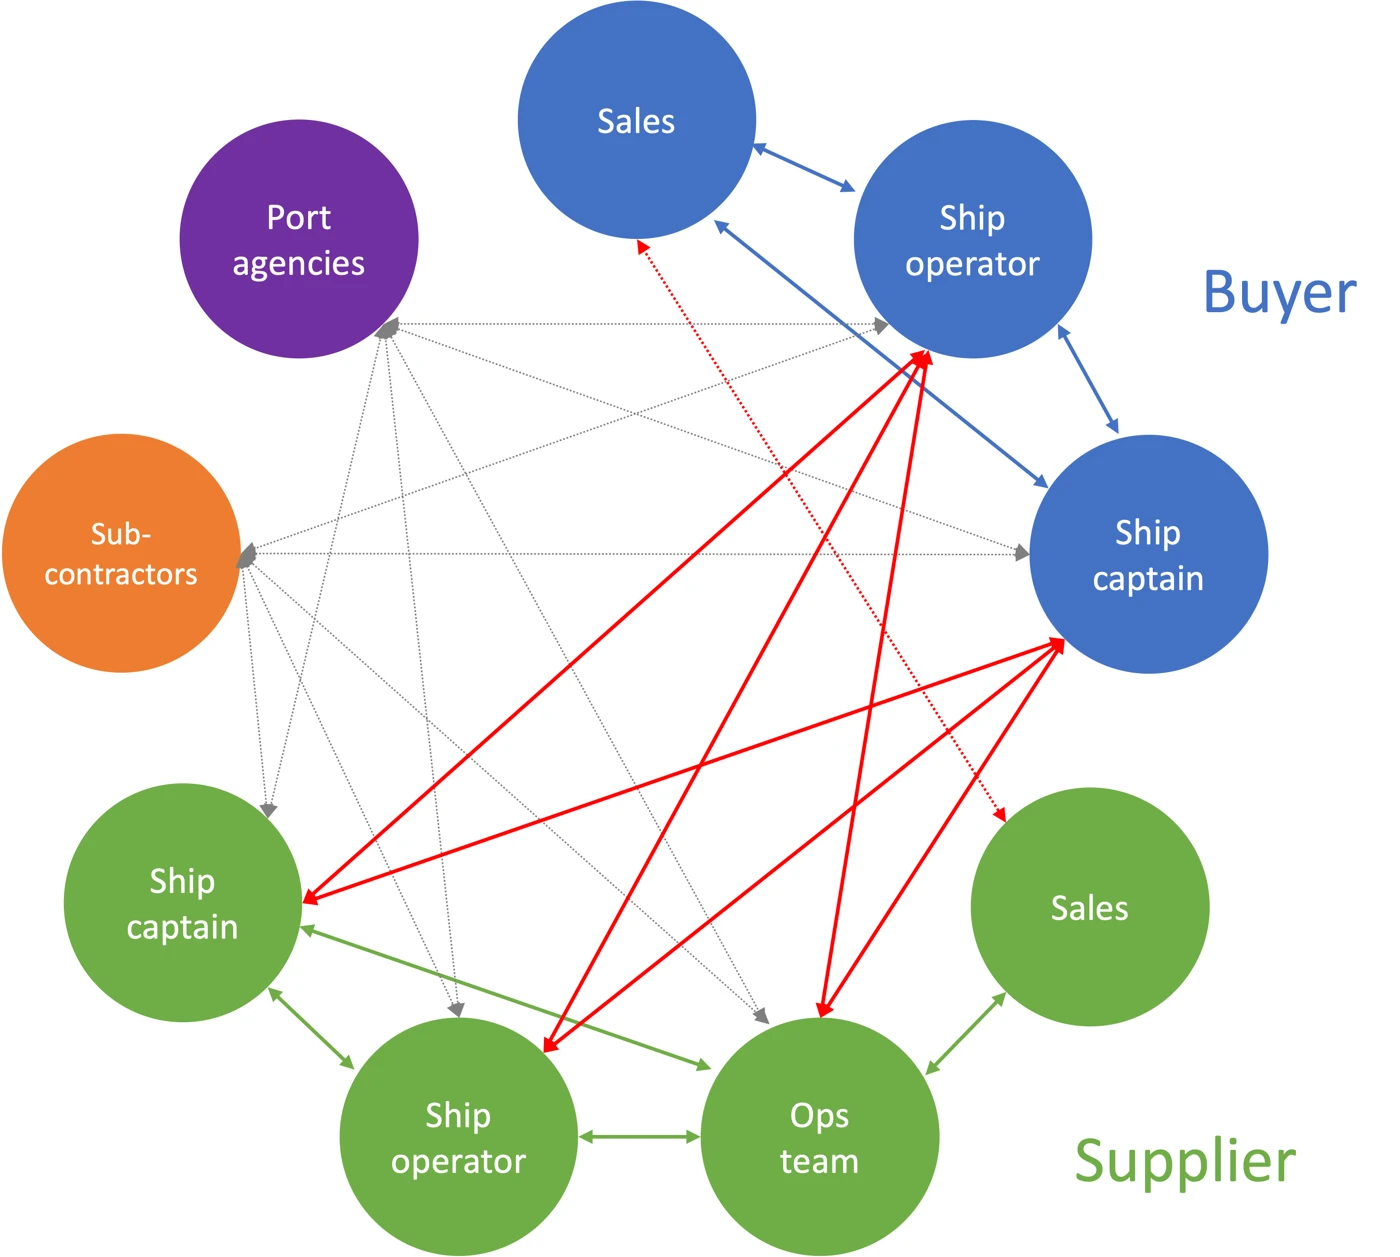
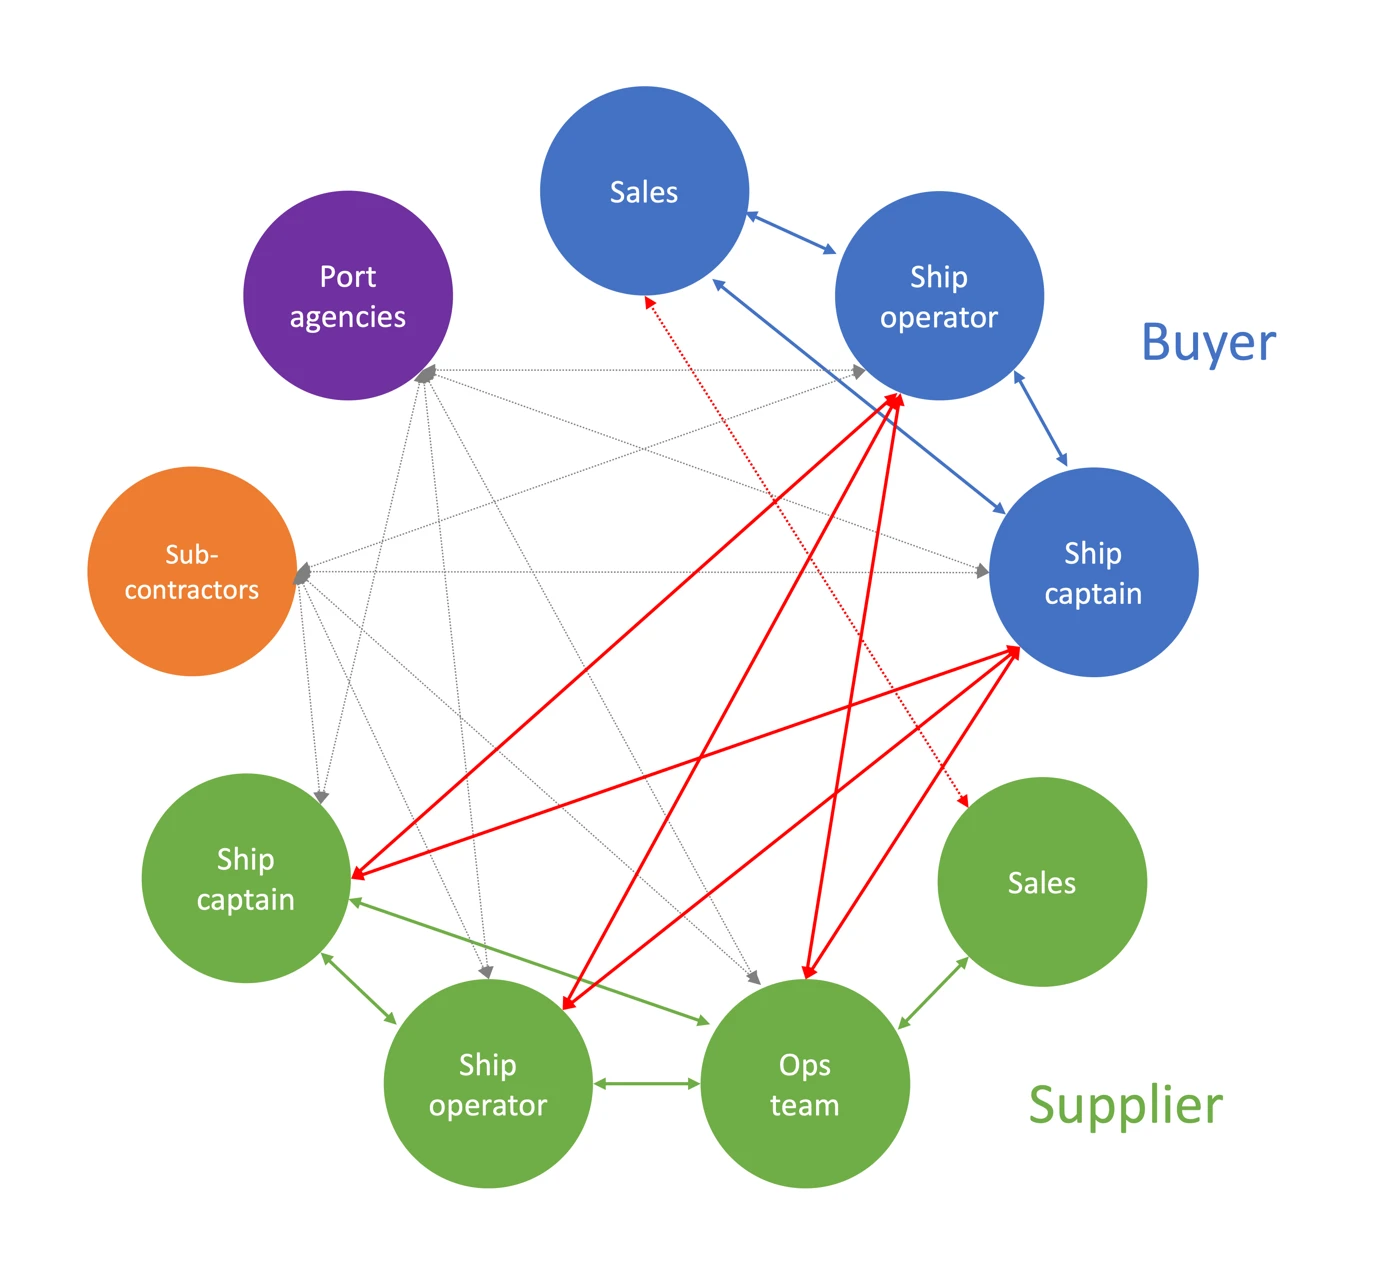
Projects: white margin around the Maritime Refueling communications map
Claude-Session: https://claude.ai/code/session_011E2VMLXTzcUZypcEyQdLEQ

diff --git a/projects.html b/projects.html
@@ -313,7 +313,7 @@
               <h3>What I Did</h3>
               <div class="proj-figs">
               <figure class="proj-fig">
-                <img src="img/maritime-refueling-comms-map.webp" width="1400" height="1257" alt="A network of stakeholders on the buyer and supplier sides, such as ship operators, captains, sales, ops teams, port agencies, and subcontractors, with arrows showing who communicates with whom" loading="lazy" />
+                <img src="img/maritime-refueling-comms-map.webp" width="1400" height="1275" alt="A network of stakeholders on the buyer and supplier sides, such as ship operators, captains, sales, ops teams, port agencies, and subcontractors, with arrows showing who communicates with whom" loading="lazy" />
                 <figcaption>A map showing the frequency and direction of communications between stakeholders.</figcaption>
               </figure>
               <figure class="proj-fig">
